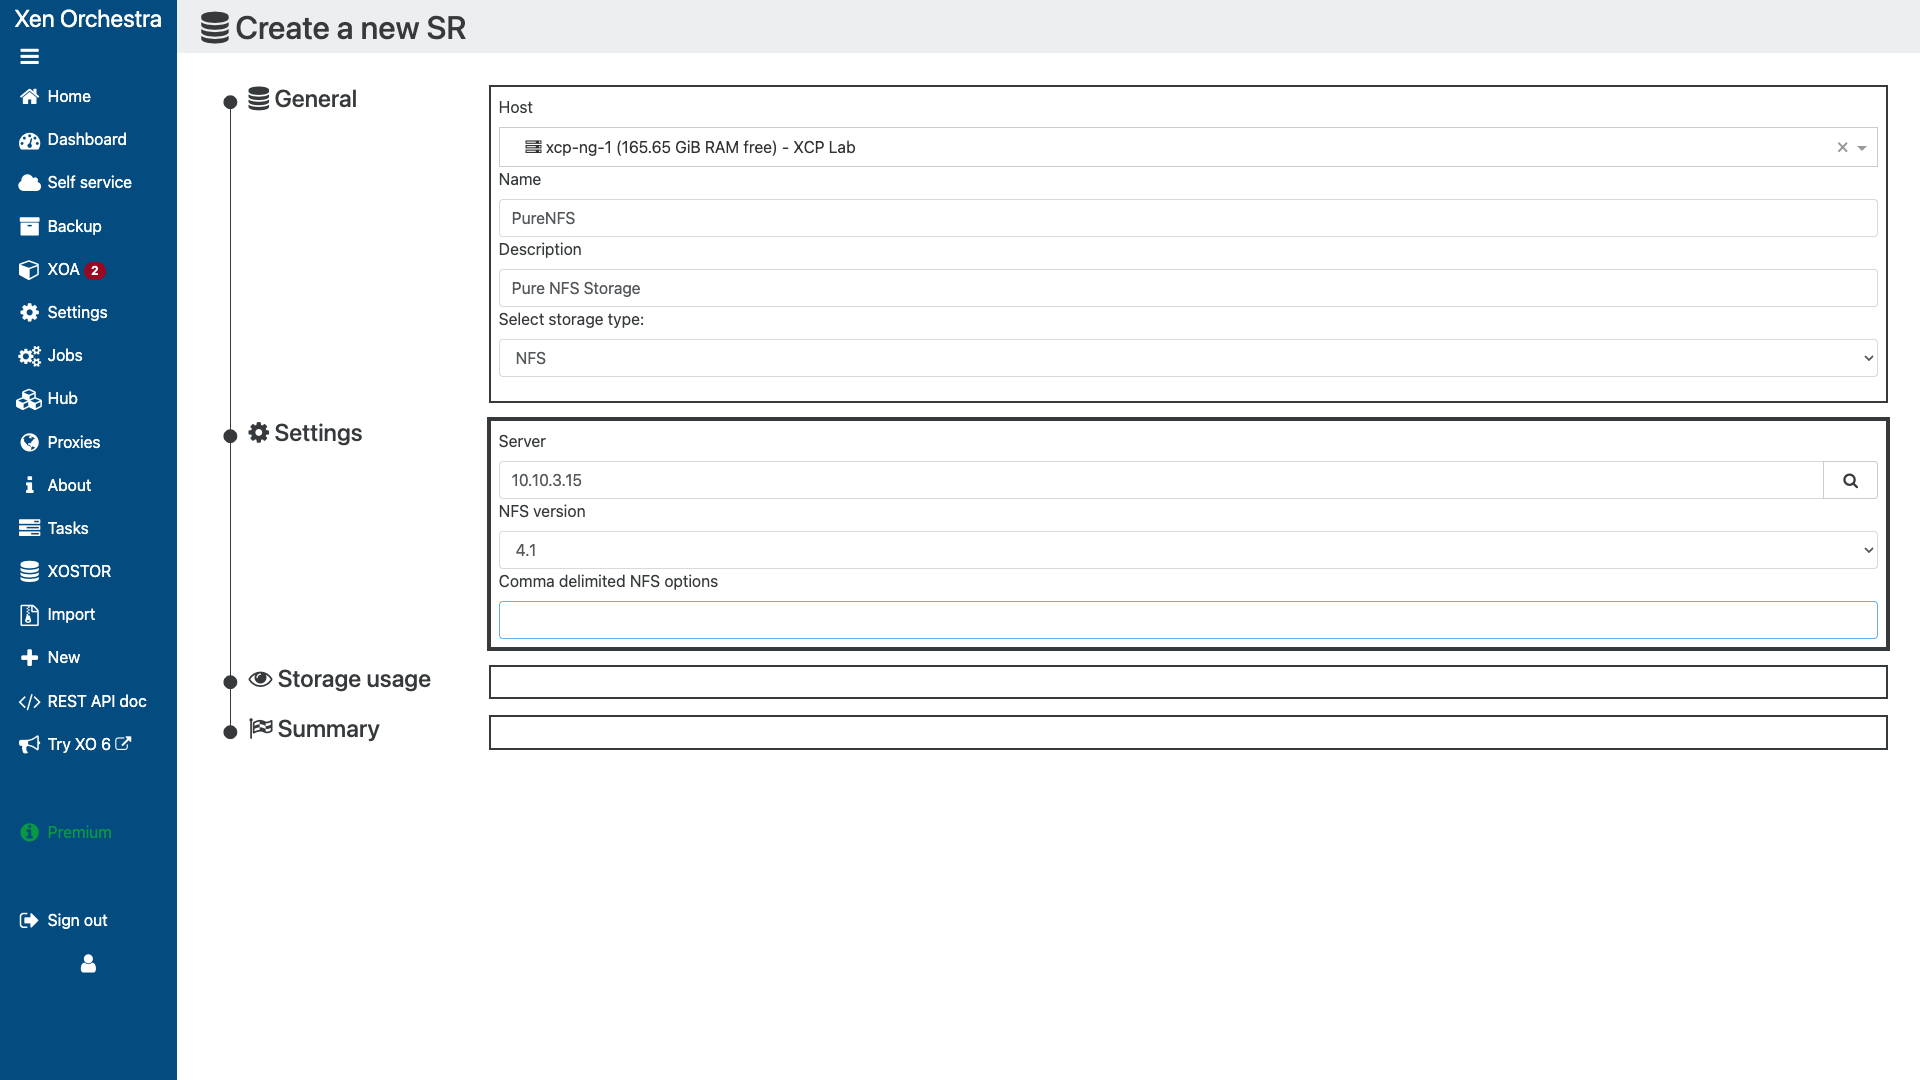
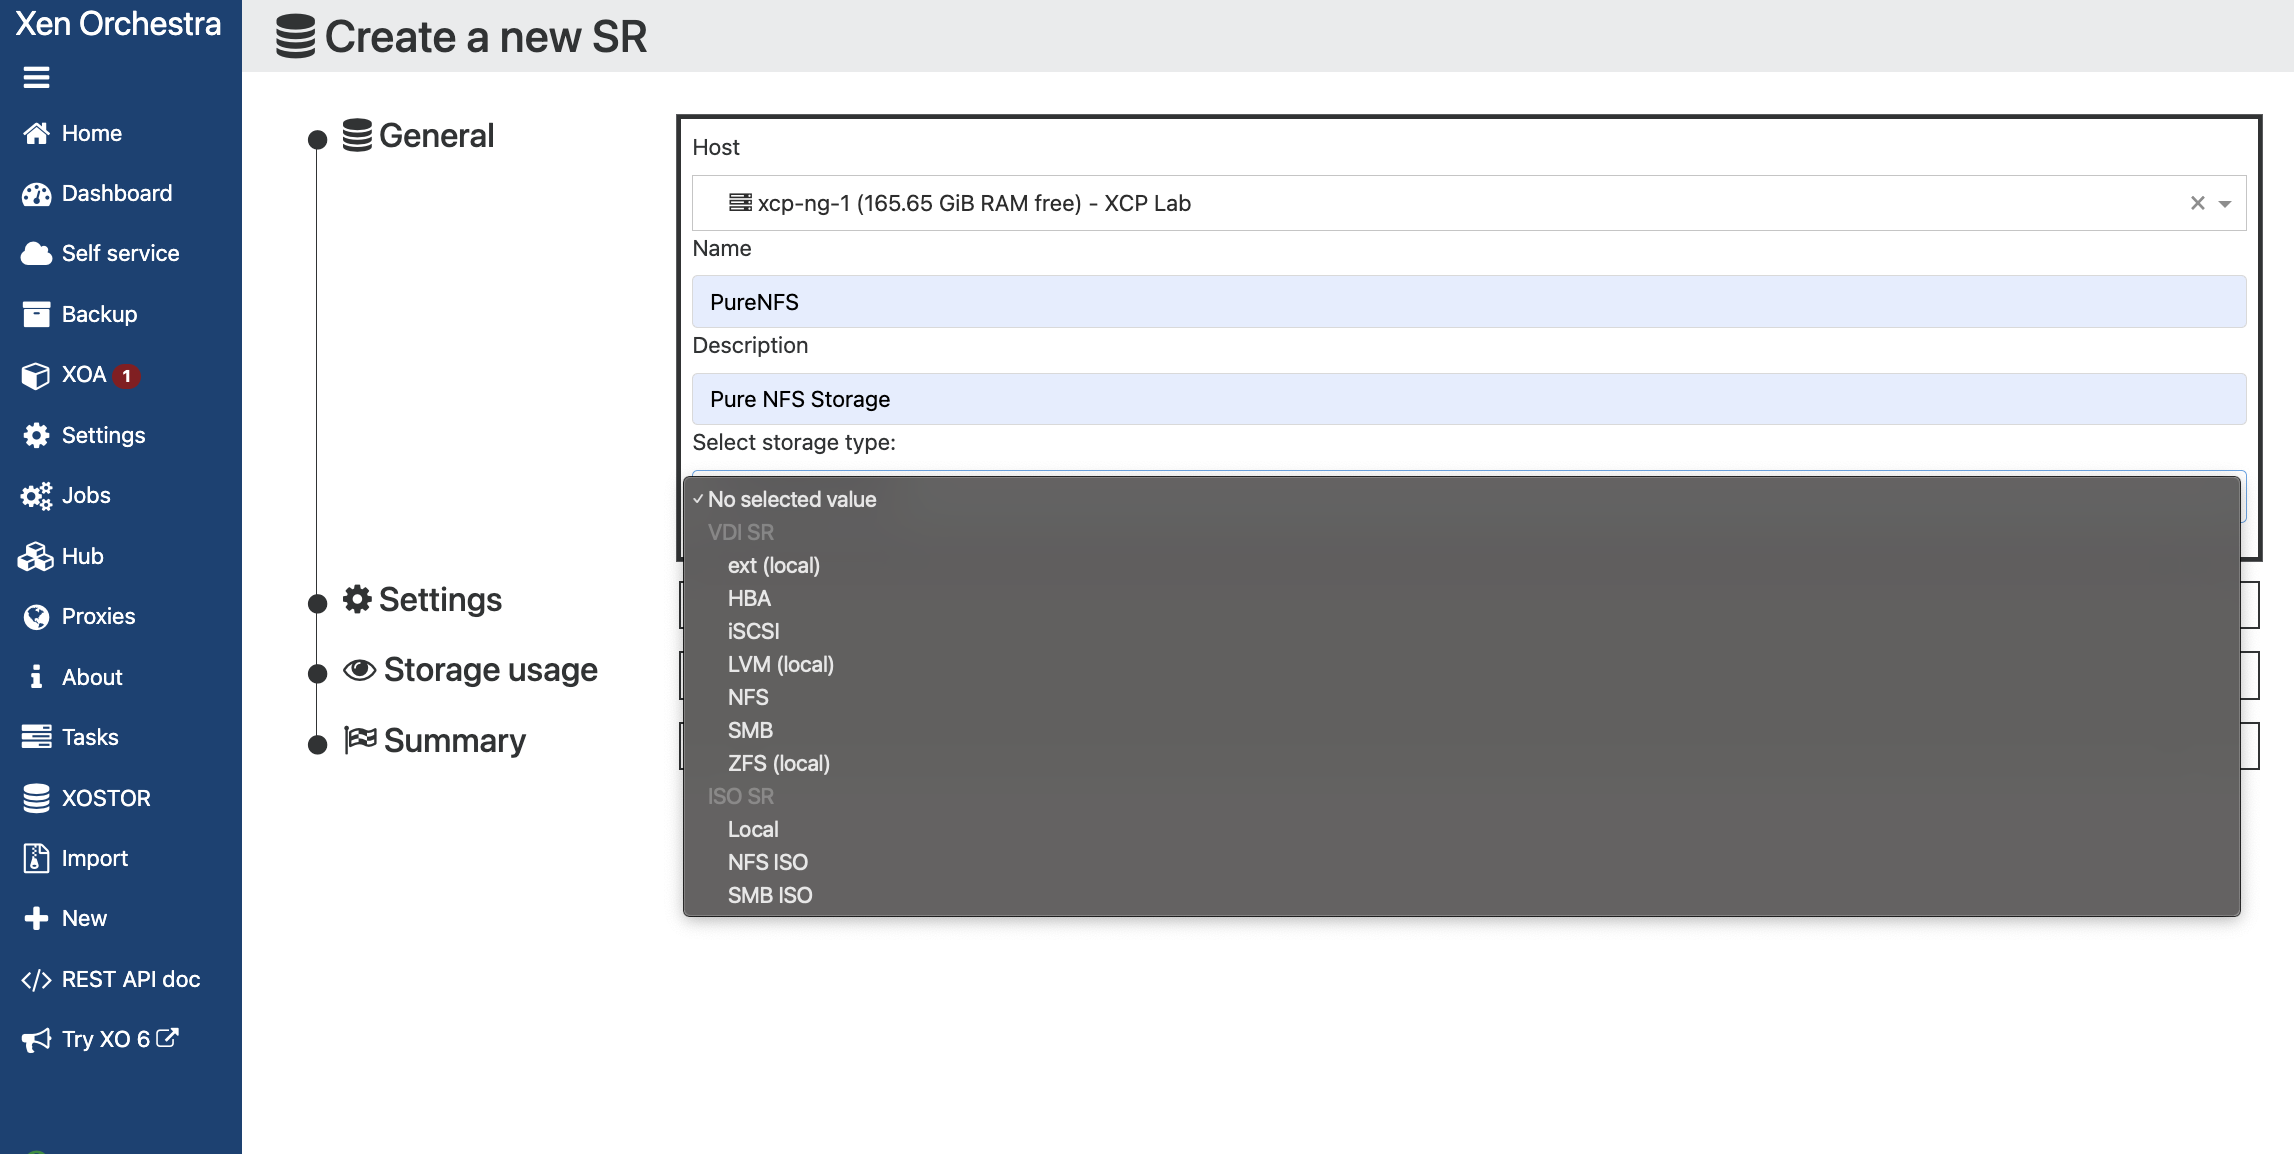
Update NFS guide with Pure FlashArray screenshots and correct image references

diff --git a/distributions/xcpng/nfs/QUICKSTART.md b/distributions/xcpng/nfs/QUICKSTART.md
@@ -23,7 +23,7 @@ This guide walks you through configuring NFS storage on XCP-ng using **Xen Orche
   - XCP-ng hosts allowed in export rules
   - NFSv3 or NFSv4.1 support
 - Network connectivity between XCP-ng hosts and NFS server
-- NFS server IP address and export path
+- Pure FlashArray NFS file interface IP and export path
 
 > **📖 New to NFS storage?** See the [Storage Terminology Glossary]({{ site.baseurl }}/common/glossary.html)
 
@@ -38,7 +38,7 @@ Ensure your NFS server has an export configured for XCP-ng.
 On your NFS server (e.g., `/etc/exports`):
 
 ```bash
-/exports/xcpng-vms  10.100.1.0/24(rw,sync,no_subtree_check,no_root_squash)
+/xcp/VMs  10.10.3.0/24(rw,sync,no_subtree_check,no_root_squash)
 ```
 
 > **Security Note:** `no_root_squash` is required for XCP-ng to manage VM files. Restrict access to your storage network.
@@ -67,15 +67,15 @@ showmount -e <NFS_SERVER_IP>
 
 Expected output from `showmount`:
 ```
-Export list for 10.100.1.50:
-/exports/xcpng-vms 10.100.1.0/24
+Export list for 10.10.3.15:
+/xcp/VMs 10.10.3.0/24
 ```
 
 
 
 ---
 
-## Step 3: Add NFS Storage Repository
+## Step 3: Add Pure FlashArray NFS
 
 ### Via Xen Orchestra
 
@@ -84,70 +84,65 @@ Export list for 10.100.1.50:
 ![XO New Storage Menu](images/01_nfs_new_storage.png)
 *XO New menu showing Storage option*
 
-2. Select **NFS** as the storage type
+2. Fill in the initial SR details:
+
+| Field | Value | Description |
+|-------|-------|-------------|
+| **Host** | Select pool master | Initial host for connection |
+| **Name** | `Pure-NFS-SR` | Descriptive name for the SR |
+| **Description** | `Pure FlashArray NFS` | Optional description |
+
+![Initial SR Details](images/02a_nfs_step_2_details.png)
+*Fill in Host, Name, and Description before selecting storage type*
+
+3. Select **NFS** from the storage type dropdown
 
 ![Storage Type Selection](images/02_nfs_step_2.png)
 *Selecting NFS storage type*
 
-3. Fill in the NFS connection details:
+4. Enter the NFS connection details:
 
 | Field | Value | Description |
 |-------|-------|-------------|
-| **Name** | `NFS-Storage-SR` | Descriptive name for the SR |
-| **Description** | `NFS Storage Repository` | Optional description |
-| **Host** | Select pool master | Initial host for connection |
-| **Server** | `10.100.1.50` | NFS server IP address |
-| **Path** | `/exports/xcpng-vms` | NFS export path |
-| **NFS Version** | `3` or `4.1` | Match your server configuration |
+| **Server** | `10.10.3.15` | Pure FlashArray NFS file interface IP |
+| **NFS Version** | `4.1` | NFSv4.1 recommended for Pure |
 
 ![NFS Connection Form](images/03_nfs_step_3.png)
 *NFS SR creation form with connection details*
 
-4. (Optional) Configure mount options:
-   - Common options: `tcp,hard,intr,timeo=600,retrans=2`
+
+5. Configure mount options (recommended for performance):
+   - **Recommended:** `nconnect=8` - enables multiple TCP connections for improved throughput
+
+![NFS Mount Options](images/04_nfs_step_4.png)
+*NFS mount options field with nconnect=8*
 
 
 
-5. Click **Create**
+6. Select the NFS export path
 
-![NFS Path Selection](images/04_nfs_step_4.png)
+![NFS Path Selection](images/06_nfs_select_path.png)
 *Selecting VMs path from NFS export*
 
-6. Wait for the SR to be created and connected
+7. Click **Create**
 
-![Create NFS Button](images/05_nfs_step_5.png)
-*NFS SR creation - Click Create*
+![Create NFS Button](images/07_nfs_click_create.png)
+*Click Create to add the NFS SR*
 
----
+8. Wait for the SR to be created - XO will automatically show the SR summary page
 
-## Step 4: Verify Storage Repository
+![SR Details](images/08_nfs_sr_details.png)
+*SR General tab showing connected NFS storage repository*
 
-### Via Xen Orchestra
+9. Verify host connections in the **Hosts** tab
 
-1. Navigate to **Home → SRs** (Storage Repositories)
-2. Find your new NFS SR in the list
-3. Click on it to view details
-
-![SR Details](images/06_nfs_step_6.png)
-*SR details page showing NFS storage repository*
-
-4. Verify the SR shows:
-   - **Status:** Connected (green)
-   - **Type:** nfs
-   - **Shared:** Yes (available on all hosts)
-
-
-
-### Check PBD Connections
-
-In the SR details, verify all hosts show connected PBDs:
-
-![SR Hosts Tab](images/07_nfs_step_7.png)
-*SR Hosts tab showing all hosts connected to NFS SR
+![SR Hosts Tab](images/09_nfs_hosts_tab.png)
+*SR Hosts tab showing all hosts connected to NFS SR*
 
 ---
 
-## Step 5: Create a Test VM
+
+## Step 4: Create a Test VM
 
 ### Via Xen Orchestra
 
@@ -155,7 +150,7 @@ In the SR details, verify all hosts show connected PBDs:
 2. Select your template (e.g., Ubuntu, CentOS, Windows)
 3. In the **Disks** section, select your new NFS SR
 
-![VM Disk Selection](images/08_nfs_step_8.png)
+![VM Disk Selection](images/10_nfs_step_10.png)
 
 4. Complete the VM creation wizard
 5. Start the VM and verify it runs correctly
